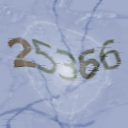
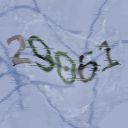
chore: update example CAPTCHA

diff --git a/.github/README.md b/.github/README.md
@@ -27,7 +27,7 @@
 
 ## Examples
 
-#### Generated image with default settings (24/03/2024)
+#### Generated image with default settings (26/03/2024)
 <img src="example.png" alt="Could not find image">
 
 #### capja being used in Minecraft as a CAPTCHA
